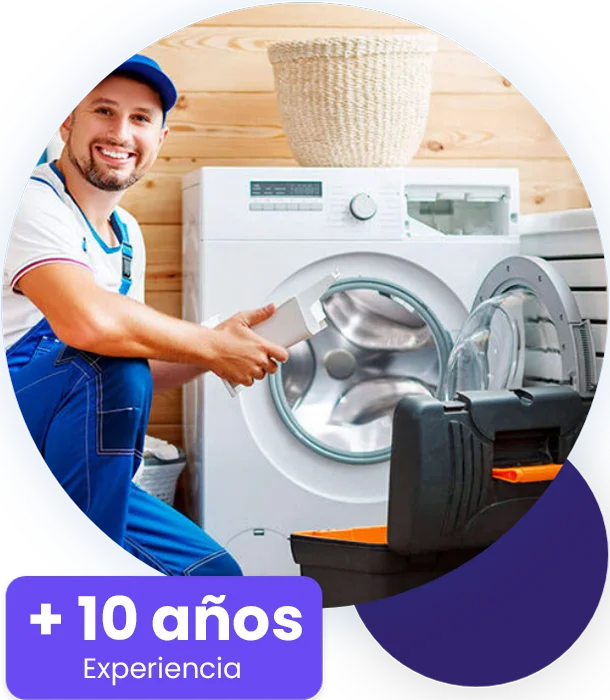
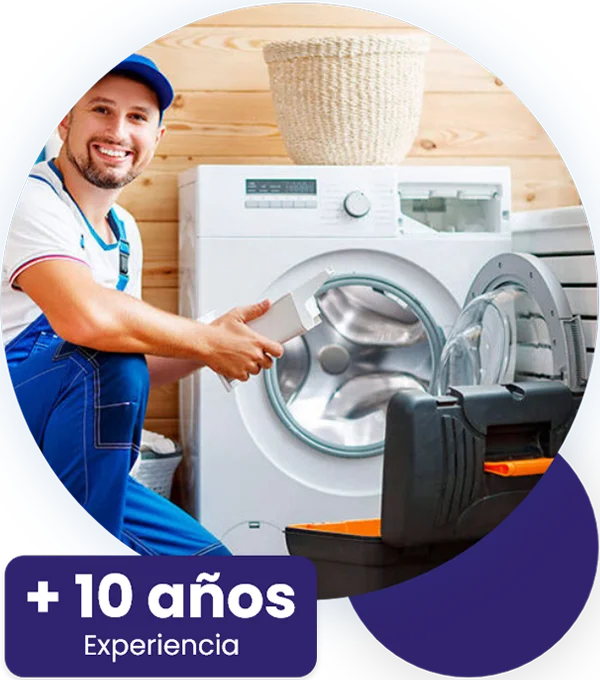
...

diff --git a/css/main.css b/css/main.css
@@ -199,7 +199,7 @@
 
 .footer {
   width: 100%;
-  background-color: #6A49F2;
+  background-color: #1428A0;
   padding: 30px 0;
   position: absolute; }
   @media (min-width: 1199px) {
@@ -298,7 +298,7 @@
         align-items: flex-start;
         justify-content: center; } }
     .hero__text h1 {
-      color: #32236F;
+      color: #040f53;
       font-size: 30px;
       font-weight: bold;
       text-align: center;
@@ -322,7 +322,7 @@
       text-align: center;
       font-family: Poppins-Bold;
       line-height: 32px;
-      color: #6A49F2; }
+      color: #1428A0; }
       @media (min-width: 768px) {
         .hero__text span {
           font-size: 38px;
@@ -359,9 +359,9 @@
           justify-content: flex-start; } }
       .hero__text__button a {
         width: 100%;
-        border: 2px solid #6A49F2;
+        border: 2px solid #1428A0;
         margin-top: 30px;
-        background-color: #6A49F2;
+        background-color: #1428A0;
         font-family: Poppins-Bold;
         padding: 20px 30px;
         color: white;
@@ -376,8 +376,8 @@
             font-size: 18px; } }
       .hero__text__button a:hover {
         background-color: white;
-        color: #6A49F2;
-        border: 2px solid #6A49F2; }
+        color: #1428A0;
+        border: 2px solid #1428A0; }
   .hero__imagen {
     position: relative;
     top: 0;
@@ -436,7 +436,7 @@
         flex-direction: column;
         gap: 15px; }
         .services__grid__item__text h1 {
-          color: #5F3EEF;
+          color: #1428A0;
           font-size: 15px;
           text-align: center;
           font-family: Poppins-Bold; }
@@ -512,7 +512,7 @@
             font-size: 18px; } }
       .solution__text__information__text span {
         font-weight: bold;
-        color: #6A49F2; }
+        color: #1428A0; }
   .solution__button {
     display: flex;
     align-items: center;
@@ -522,9 +522,9 @@
         width: 90%;
         margin: auto; } }
     .solution__button a {
-      border: 2px solid #6A49F2;
+      border: 2px solid #1428A0;
       margin-top: 15px;
-      background-color: #6A49F2;
+      background-color: #1428A0;
       font-family: Poppins-Bold;
       font-weight: bold;
       padding: 15px;
@@ -543,8 +543,8 @@
           margin-top: 30px; } }
     .solution__button a:hover {
       background-color: white;
-      color: #6A49F2;
-      border: 2px solid #6A49F2; }
+      color: #1428A0;
+      border: 2px solid #1428A0; }
 
 .offer {
   width: 100%;
@@ -650,7 +650,7 @@
           .offer__content__grid__item__text h1 {
             font-weight: normal;
             width: 100%;
-            color: #5F3EEF;
+            color: #1428A0;
             font-family: Poppins-Bold;
             font-size: 15px;
             text-align: center;
@@ -688,7 +688,7 @@
           .offer__content__carrousel__item__text h1 {
             font-weight: normal;
             width: 100%;
-            color: #5F3EEF;
+            color: #1428A0;
             font-family: Poppins-Bold;
             font-size: 15px;
             text-align: center;
@@ -731,9 +731,9 @@
         align-items: center;
         justify-content: flex-end; } }
     .offer__button a {
-      border: 2px solid #6A49F2;
+      border: 2px solid #1428A0;
       margin-top: 15px;
-      background-color: #6A49F2;
+      background-color: #1428A0;
       font-family: Poppins-Bold;
       font-weight: bold;
       padding: 15px;
@@ -752,8 +752,8 @@
           margin-top: 30px; } }
     .offer__button a:hover {
       background-color: white;
-      color: #6A49F2;
-      border: 2px solid #6A49F2; }
+      color: #1428A0;
+      border: 2px solid #1428A0; }
 
 .swiper {
   width: 100%;
@@ -882,7 +882,7 @@
       font-family: Poppins-Bold;
       font-weight: bold;
       padding: 15px;
-      color: #6A49F2;
+      color: #1428A0;
       border-radius: 20px;
       text-align: center; }
       @media (min-width: 300px) {
@@ -896,9 +896,9 @@
         .the_best__button a {
           margin-top: 30px; } }
     .the_best__button a:hover {
-      background-color: #6A49F2;
+      background-color: #1428A0;
       color: white;
-      border: 2px solid #6A49F2; }
+      border: 2px solid #1428A0; }
 
 .domestic {
   width: 100%;
@@ -936,7 +936,7 @@
         align-items: flex-start;
         justify-content: center; } }
     .domestic__text h1 {
-      color: #6A49F2;
+      color: #1428A0;
       font-size: 20px;
       font-family: Poppins-Bold;
       text-align: center; }
@@ -964,7 +964,7 @@
         .domestic__text__inputs__input {
           padding: 7.5px 0; } }
       .domestic__text__inputs__input label {
-        color: #6A49F2;
+        color: #1428A0;
         font-family: Poppins-Bold;
         font-size: 15px; }
         @media (min-width: 1199px) {
@@ -991,9 +991,9 @@
         justify-content: center; }
         .domestic__text__inputs__input__button button {
           width: 100%;
-          border: 2px solid #6A49F2;
+          border: 2px solid #1428A0;
           margin-top: 15px;
-          background-color: #6A49F2;
+          background-color: #1428A0;
           font-family: Poppins-Bold;
           font-weight: bold;
           padding: 15px;
@@ -1012,8 +1012,8 @@
               margin-top: 30px; } }
         .domestic__text__inputs__input__button button:hover {
           background-color: white;
-          color: #6A49F2;
-          border: 2px solid #6A49F2; }
+          color: #1428A0;
+          border: 2px solid #1428A0; }
   .domestic__imagen {
     display: flex;
     align-items: center;
@@ -1095,7 +1095,7 @@
       flex-direction: column;
       gap: 30px; }
       .form__text__text h1 {
-        color: #6A49F2;
+        color: #1428A0;
         font-size: 25px;
         padding: 3px;
         font-family: Poppins-Bold; }
@@ -1144,7 +1144,7 @@
     display: grid;
     grid-template-columns: repeat(2, 1fr); }
   .thanks h2 {
-    color: #5F3EEF;
+    color: #1428A0;
     font-size: 20px;
     text-align: center;
     font-family: Poppins-Regular;
@@ -1170,9 +1170,9 @@
     align-items: center;
     justify-content: center; }
     .thanks__button a {
-      border: 2px solid #6A49F2;
+      border: 2px solid #1428A0;
       margin-top: 30px;
-      background-color: #6A49F2;
+      background-color: #1428A0;
       font-family: Poppins-Bold;
       padding: 15px 30px;
       color: white;
@@ -1187,12 +1187,12 @@
           font-size: 25px; } }
     .thanks__button a:hover {
       background-color: white;
-      color: #6A49F2;
-      border: 2px solid #6A49F2; }
+      color: #1428A0;
+      border: 2px solid #1428A0; }
   .thanks a:hover {
     background-color: white;
-    color: #6A49F2;
-    border: 2px solid #6A49F2; }
+    color: #1428A0;
+    border: 2px solid #1428A0; }
 
 .banner_privacidad {
   width: 100%;

diff --git a/index.html b/index.html
@@ -418,7 +418,7 @@
         </div>
 
         <div class="solution">
-            <h1 class="title"><span style="color: #6A49F2;">La mejor solución en </span> Servicio Técnico Samsung</h1>
+            <h1 class="title"><span style="color: #1428A0;">La mejor solución en </span> Servicio Técnico Samsung</h1>
             <div class="container">
                 
                 <div class="solution__imagen">

diff --git a/scss/globals/colors.scss b/scss/globals/colors.scss
@@ -7,15 +7,14 @@ $baltic_sea:#4f4f4f;
 
 //*blue
 $Meteorite:#32236F;
-$Bluish_Purple:#6A49F2;
-$Bluish_Purple_two:#5F3EEF;
+$Bluish_Purple:#1428A0;
+$Bluish_Purple_two:#1428A0;
 
 //*eliminar
 $elephant:#253596;
 $science_blue:#203B77;
 $water_blue:#1428A0;
-$medium_electric_blue:#5D70D6;
-
+$medium_electric_blue:#1428A0;
 $harp:#F6F6F6F6;
 
 //*gray

diff --git a/scss/components/_hero.scss b/scss/components/_hero.scss
@@ -27,7 +27,7 @@
         }
         
         h1{
-            color: $Meteorite;
+            color: #040f53;
             font-size: 30px;
             font-weight:bold;
             text-align: center;
